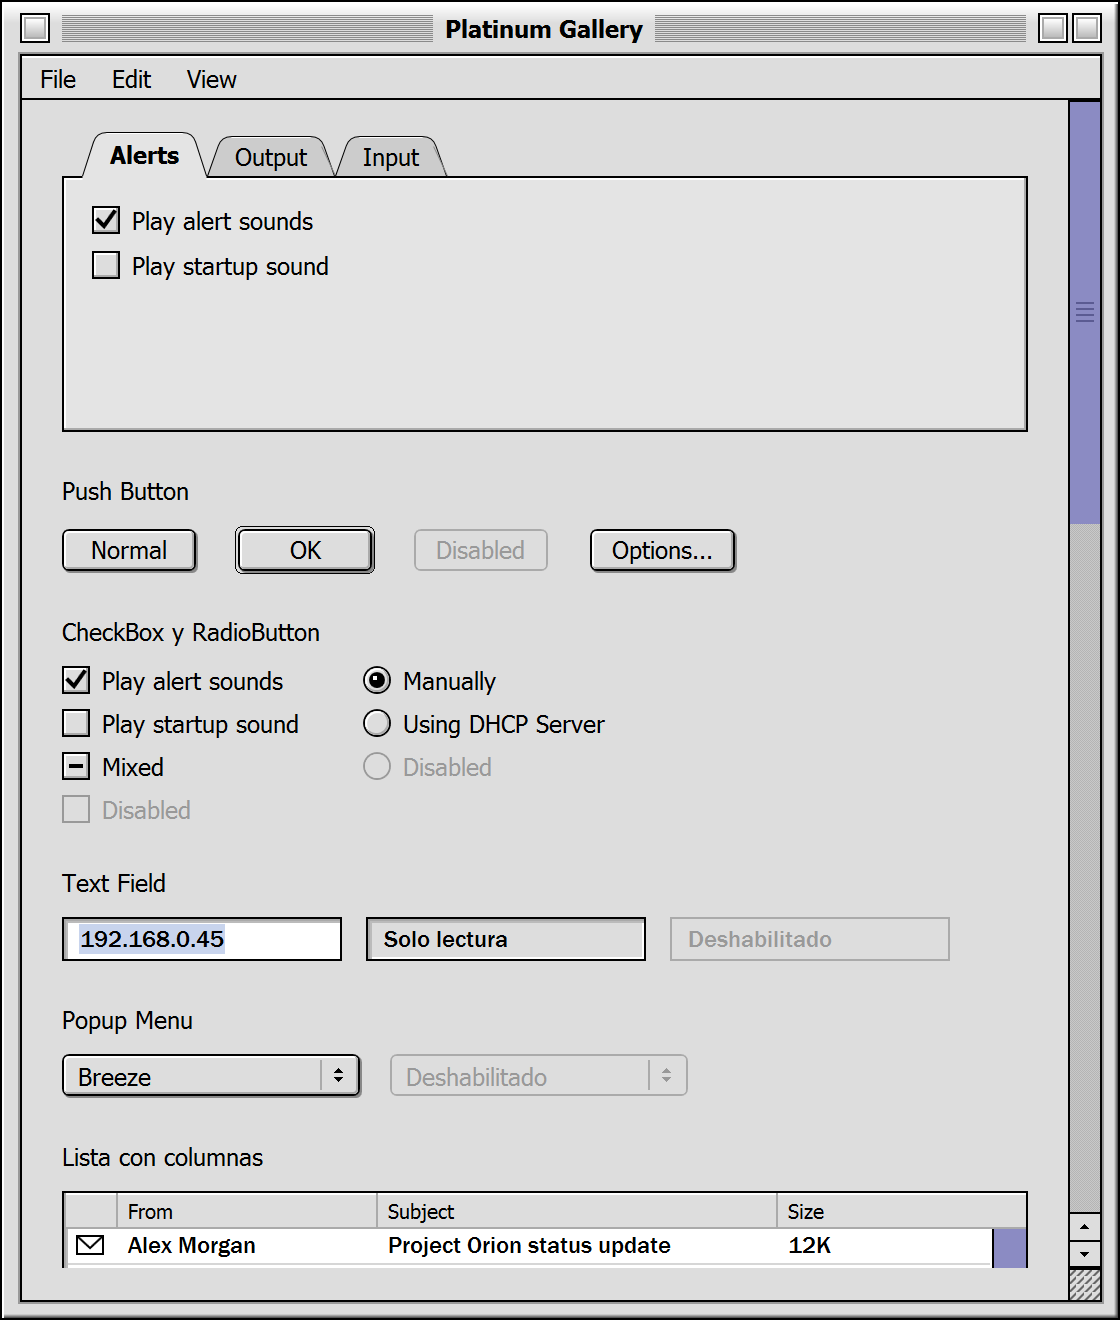
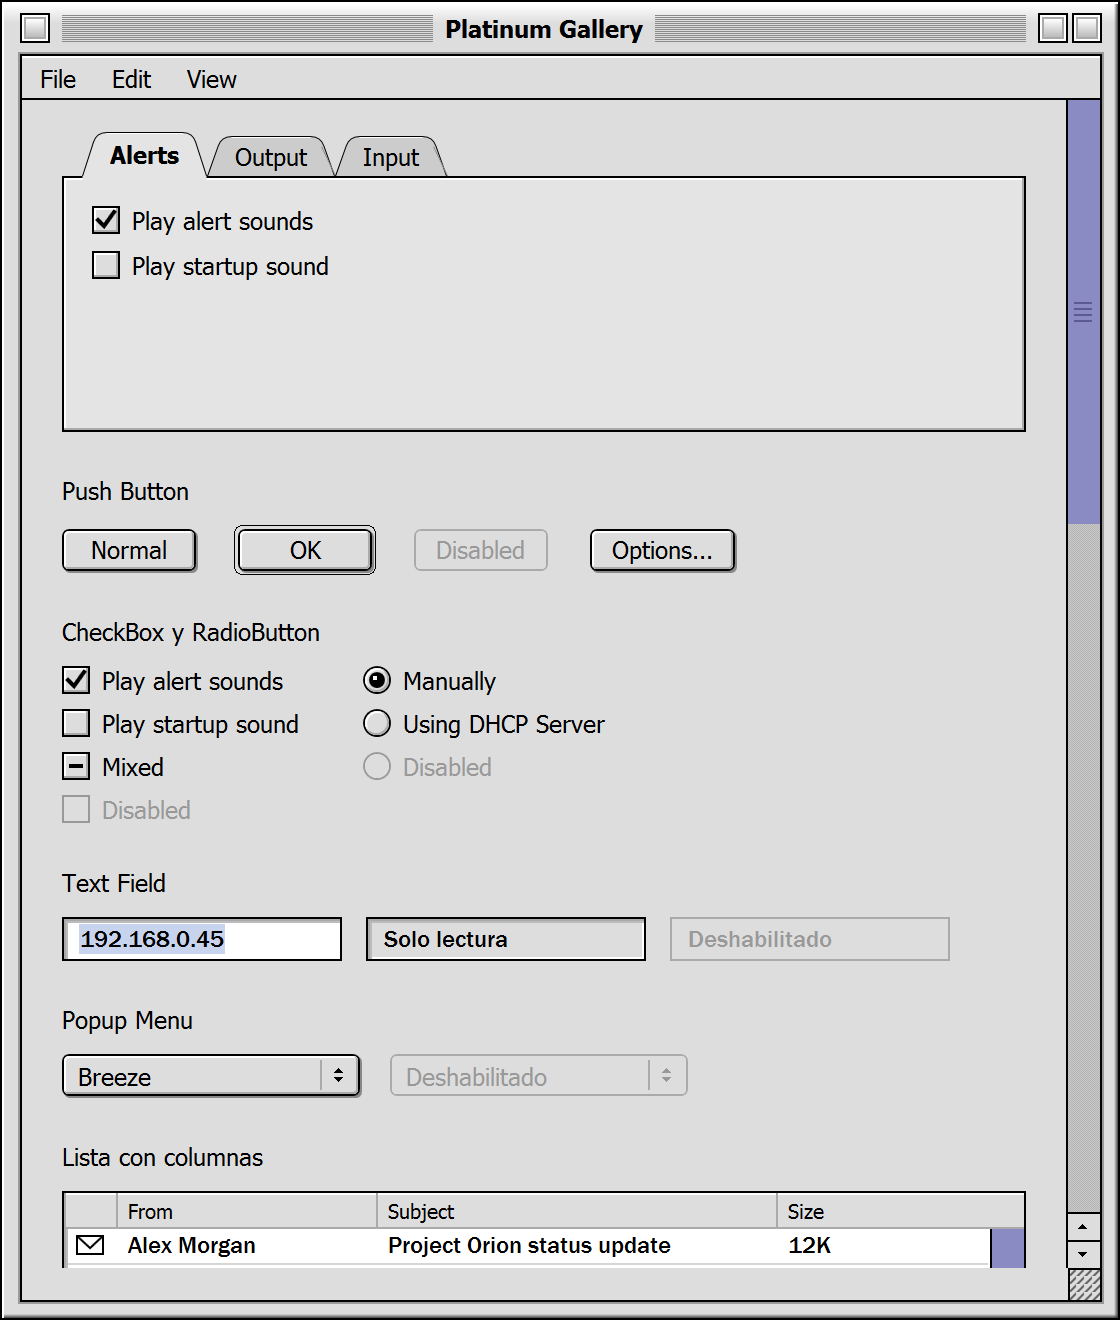
Quita a las barras de la galería los filos que ya cierra el marco
Sobre el deslizador aparecían 2 píxeles reales de negro contra 1 en los
costados: el filete del marco del contenido y encima el de la propia barra.
Ahora cada barra dibuja solo el lado que da hacia adentro, con el
BorderThickness que el control ya expone.

Con eso sobra el margen derecho negativo que había: era un tirón sobre el
vecino que tapaba el filo derecho y dejaba el de arriba al doble.

La captura del README se rehizo y ya trae también el anillo separado.

Changed region(s): [[0.875, 0.0932, 0.9688, 0.9629]]

diff --git a/src/MacOS9.Platinum.Gallery/MainWindow.xaml b/src/MacOS9.Platinum.Gallery/MainWindow.xaml
@@ -34,11 +34,23 @@
 
     <!-- El margen inferior deja libre el grow box, que se dibuja encima del         -->
     <!-- contenido: sin él, la flecha de bajar de la barra queda tapada.             -->
-    <!-- El margen derecho negativo hace que el filo de la barra coincida con el     -->
-    <!-- del marco en vez de sumarse a él, que es lo que lo hacía verse doble.       -->
     <ScrollViewer VerticalScrollBarVisibility="Auto"
                   HorizontalScrollBarVisibility="Auto"
-                  Margin="0,0,-1,16">
+                  Margin="0,0,0,16">
+        <ScrollViewer.Resources>
+            <!-- El marco del contenido cierra tres lados de cada barra, así que     -->
+            <!-- cada una solo dibuja el que da hacia adentro. Antes se resolvía     -->
+            <!-- tirando de la vertical con un margen negativo, que tapaba el filo   -->
+            <!-- derecho y dejaba arriba y abajo al doble de grueso.                 -->
+            <Style TargetType="{x:Type ScrollBar}" BasedOn="{StaticResource PlatinumScrollBar}">
+                <Setter Property="BorderThickness" Value="1,0,0,0" />
+                <Style.Triggers>
+                    <Trigger Property="Orientation" Value="Horizontal">
+                        <Setter Property="BorderThickness" Value="0,1,0,0" />
+                    </Trigger>
+                </Style.Triggers>
+            </Style>
+        </ScrollViewer.Resources>
     <StackPanel Margin="20,16">
 
         <TabControl Margin="0,0,0,22" Height="150">
